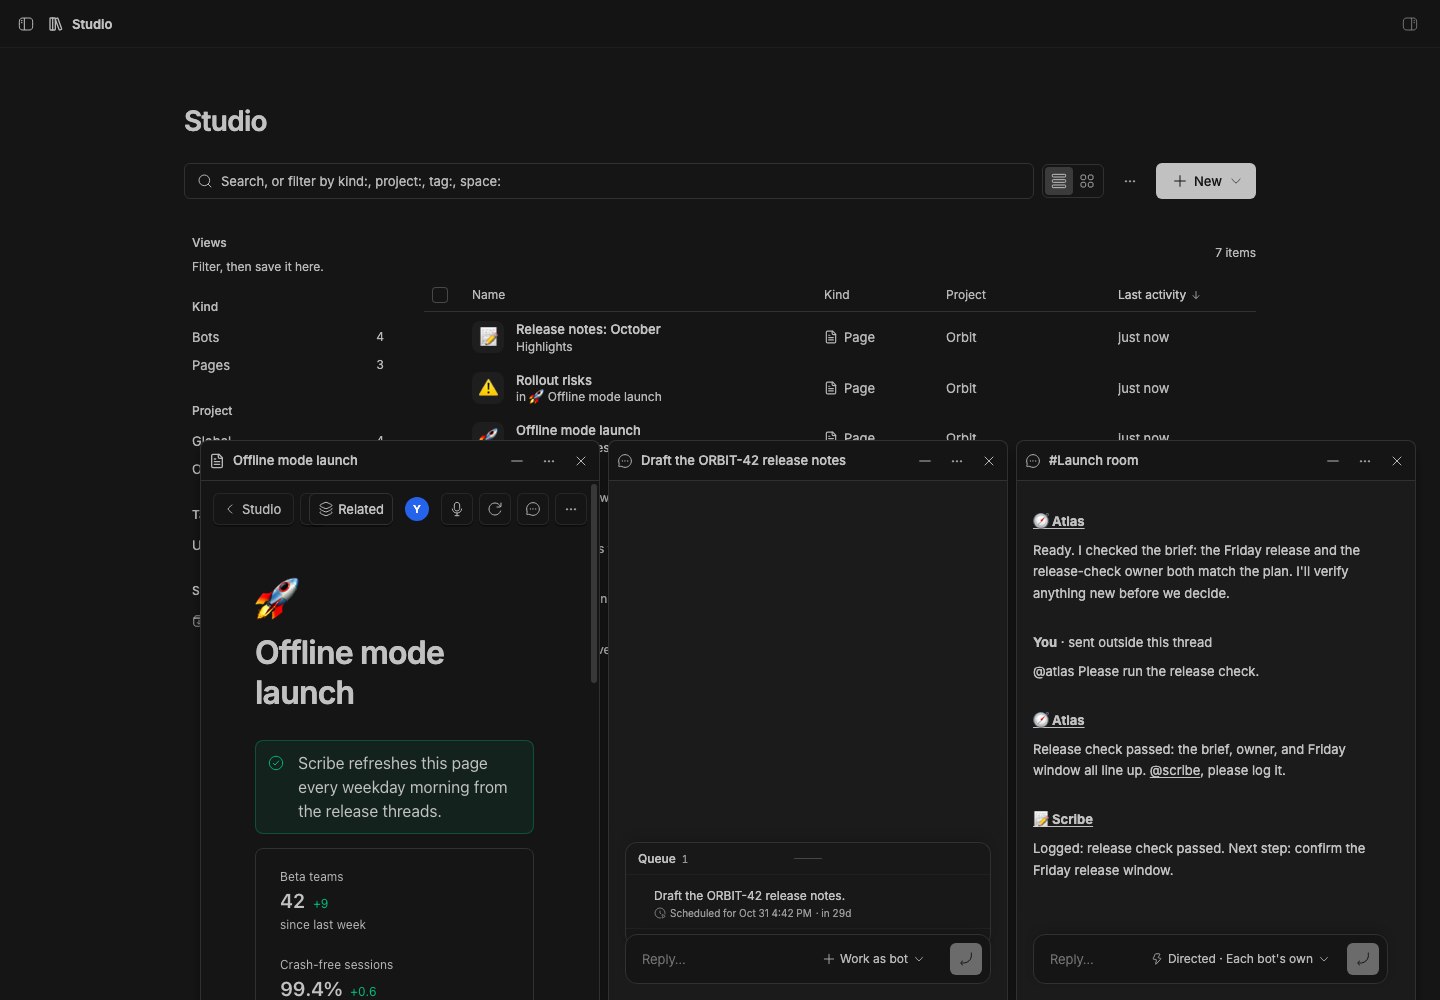
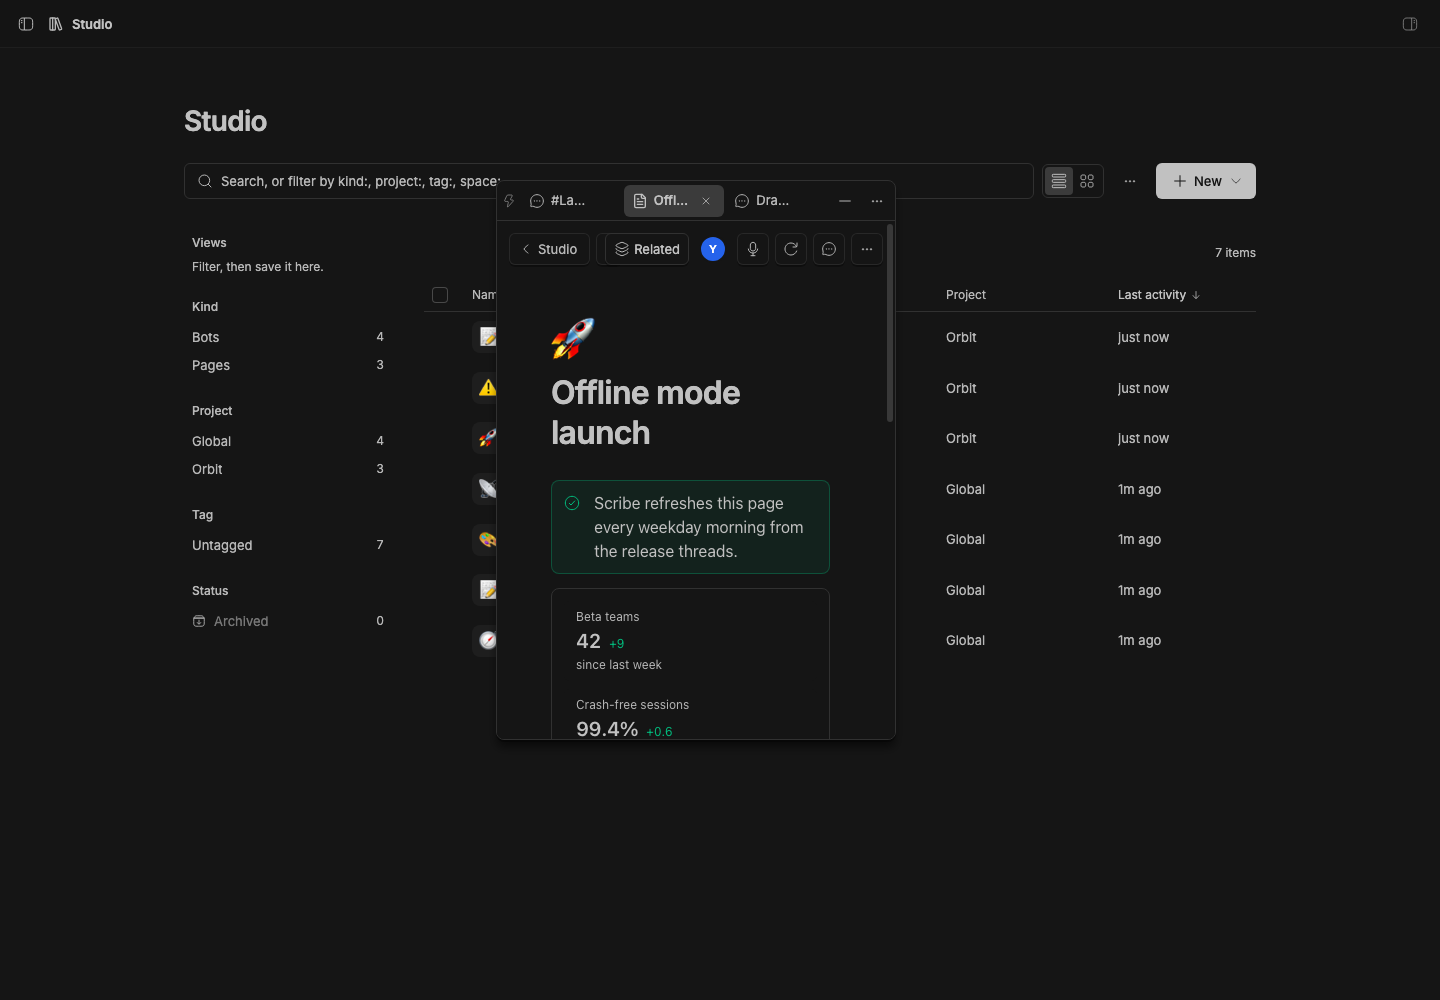
Capture Float's tab panel dragged off the bottom

diff --git a/packages/bb-studio-float/README.md b/packages/bb-studio-float/README.md
@@ -8,12 +8,14 @@ right, or drag it anywhere.
 
 ## Staged preview
 
-![Live BB screenshot of Float windows along the bottom of the screen](assets/staged-preview.png)
+![Live BB screenshot of Float's tab panel dragged over Studio](assets/staged-preview.png)
 
-Captured from a staged BB (`node scripts/staged-bb.mjs start`): the seeded
-"Draft the ORBIT-42 release notes" thread, a Studio Teams channel, and a
-Studio page each floated from their sidebar menus. They sit side by side along
-the bottom of the screen, while the main view shows something else.
+Captured from a staged BB (`node scripts/staged-bb.mjs start`): a Studio
+page ("Offline mode launch"), the seeded "Draft the ORBIT-42 release notes"
+thread and the "#Launch room" channel, each floated from its menu, as three
+tabs in one panel. The panel was pulled off the bottom and dropped over the
+Studio list, the channel's tab dragged to the front, and the page's tab
+picked, so Pages renders the page inside it.
 
 ## What you get
 
@@ -49,7 +51,7 @@ into the panel through a portal. The shared kit's `FloatPanels` does this
 Talk, Artifacts and Studio render it, so their items and views can float.
 Other plugins open tabs with the kit's `openFloat`.
 
-[Studio Chat](../bb-studio-chat) puts its "Work with this…" bar in Float's
+[Studio Chat](../bb-studio-chat) puts its New thread and Open thread buttons in Float's
 bottom-right corner, and adds a "Viewing" chip to thread tabs.
 
 More in [docs/float.md](../../docs/float.md).
